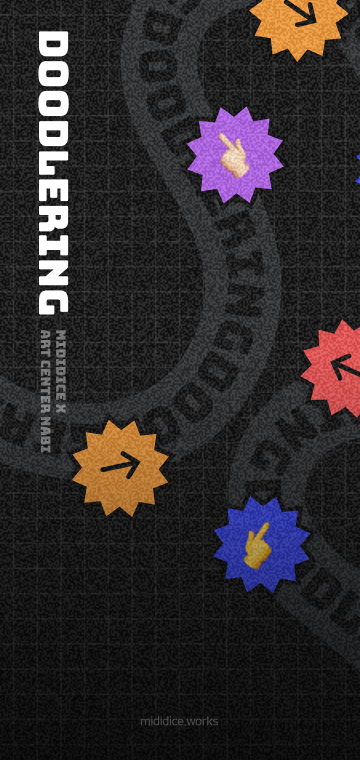
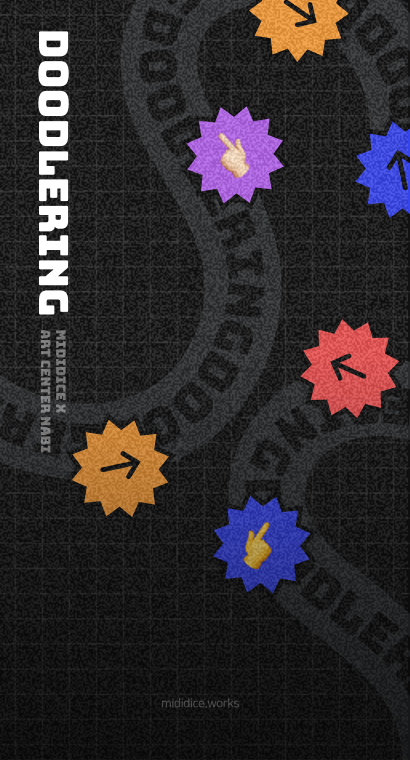
버튼 동적으로 변경

diff --git a/static/app/play_doodle.js b/static/app/play_doodle.js
@@ -3,6 +3,7 @@ const IMAGE_SIZE = 784;
 const CLASSES = ['laptop', 'rainbow', 'baseball_bat', 'ice_cream', 'flower', 'suitcase', 'tree', 'microphone', 'sword', 'helmet', 'apple', 'umbrella', 'frying_pan', 'envelope', 'triangle', 'alarm_clock', 'paper_clip', 'light_bulb', 'scissors', 'cat', 't-shirt', 'ceiling_fan', 'key', 'mountain', 'table', 'moon', 'smiley_face', 'car', 'spoon', 'bird', 'saw', 'traffic_light', 'knife', 'wristwatch', 'shovel', 'circle', 'face', 'bridge', 'camera', 'bread', 'screwdriver', 'tennis_racquet', 'cell_phone', 'airplane', 'bed', 'baseball', 'moustache', 'candle', 'tooth', 'star', 'sock', 'dumbbell', 'lollipop', 'bicycle', 'hat', 'spider', 'clock', 'shorts', 'anvil', 'pants', 'syringe', 'ladder', 'axe', 'headphones', 'grapes', 'square', 'chair', 'coffee_cup', 'lightning', 'cookie', 'wheel', 'pencil', 'cloud', 'mushroom', 'door', 'drums', 'fan', 'bench', 'sun', 'stop_sign', 'eye', 'beard', 'radio', 'snake', 'line', 'power_outlet', 'diving_board', 'rifle', 'eyeglasses', 'broom', 'donut', 'pillow', 'hot_dog', 'butterfly', 'hammer', 'basketball', 'book', 'tent', 'pizza', 'cup'];
 let model;
 let cnv;
+let startDraw = false;
 
 let current_raw_line = [];
 let prediction = [];
@@ -29,6 +30,8 @@ function setup() {
     current_raw_line = [];
     prediction = [];
     select('#word').html("____");
+    $('.bttn_off_next').attr("src", "/static/img/bttn_off_next/0.svg");
+    startDraw = false;
   });
 }
 
@@ -112,6 +115,10 @@ function draw() {
   if (mouseIsPressed) {
     line(pmouseX, pmouseY, mouseX, mouseY);
     current_raw_line.push([pmouseX, pmouseY, mouseX, mouseY]);
+    startDraw = true;
+  }
+  if(startDraw){
+    $('.bttn_off_next').attr("src", "/static/img/bttn_off_next/"+getSequence()+".svg");
   }
 }
 
@@ -124,18 +131,28 @@ function get_window_height() {
   // return p.windowHeight;
   return window.innerHeight;
 }
-
+$('.bttn_off_back').click(function(){
+  var sequence = getSequence();
+  if(sequence>1){
+    location.href="/playing/"+key+"/"+(parseInt(sequence)-1);
+  }else{
+    location.href="/home";
+  }
+});
 $('.bttn_off_next').click(function(){
-  filter(INVERT);
-  filter(THRESHOLD);
-  guess();
-  background('#3644eb');
+  if(startDraw){
+    filter(INVERT);
+    filter(THRESHOLD);
+    guess();
+    background('#3644eb');
+  }
   var key = getKey();
   var sequence = getSequence();
   var data = {"prediction":prediction, "coordinate": current_raw_line};
   if(prediction.length<1){
     return;
   }
+  $(this).attr('disabled', true);
   $.ajax({
     type: 'POST',
     url: '/play/'+key+'/'+sequence,
@@ -178,5 +195,6 @@ $(function() {
       alert(error);
   });
 
-  $(".badge").attr("src","/static/img/badge/"+sequence+".svg");
+  $(".badge").attr("src", "/static/img/badge/"+sequence+".svg");
+  $('.bttn_off_back').attr("src", "/static/img/bttn_off_back/"+sequence+".svg");
 });

diff --git a/views/home.html b/views/home.html
@@ -36,14 +36,14 @@
     .bttn_gamestart {
       position: absolute;
       bottom: 0;
-      left: 8%;
+      left: 12%;
       margin-bottom: 40%;
     }
 
     .bttn_howtoplay {
       position: absolute;
       bottom: 0;
-      left: 8%;
+      left: 12%;
       bottom: 0;
       margin-bottom: 22%;
     }
@@ -57,7 +57,7 @@
 <body>
   <div class="container">
     <picture>
-      <img src="/static/img/start_gametitle_400_800.png" alt="start game title" style="object-fit: cover;"
+      <img src="/static/img/start_gametitle.png" alt="start game title" style="object-fit: cover;"
         class="background_image" loading="lazy" />
     </picture>
     <picture>

diff --git a/views/playing.html b/views/playing.html
@@ -152,11 +152,11 @@
     </div>
     <div class="ui_bottom">
       <picture>
-        <img src="/static/img/bttn_off_back/0.svg" alt="next button" style="object-fit: cover;" class="bttn_off_back"
+        <img src="" alt="next button" style="object-fit: cover;" class="bttn_off_back"
           loading="lazy" />
       </picture>
       <picture>
-        <img src="/static/img/bttn_off_next/2.svg" alt="next button" style="object-fit: cover;" class="bttn_off_next"
+        <img src="/static/img/bttn_off_next/0.svg" alt="next button" style="object-fit: cover;" class="bttn_off_next"
           loading="lazy" />
       </picture>
     </div>

diff --git a/static/app/ml5.classification.hangeul.js b/static/app/ml5.classification.hangeul.js
@@ -12,7 +12,7 @@ let hanguel = new Map([
 ["pliers","펜치"],
 ["watermelon","수박"],
 ["apple","사과"],
-["baseball","야구"],
+["baseball","야구공"],
 ["feather","깃털"],
 ["shoe","신발"],
 ["leaf","잎"],
@@ -109,7 +109,7 @@ let hanguel = new Map([
 ["coffee_cup","커피잔"],
 ["computer","컴퓨터"],
 ["matches","성냥"],
-["beard","빵"],
+["bread","빵"],
 ["frog","개구리"],
 ["crocodile","악어"],
 ["bathtub","욕조"],
@@ -343,4 +343,5 @@ let hanguel = new Map([
 ["streetlight","가로등"],
 ["bed","침대"],
 ["firetruck","소방차"],
+["beard","수염"]
 ])
